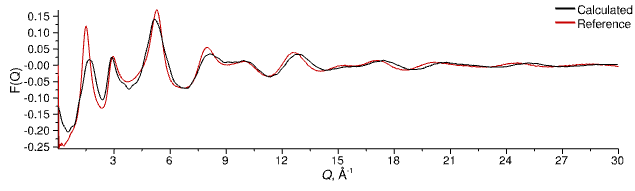
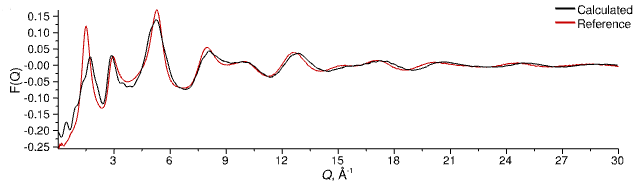
Update bulk silica example.

diff --git a/docs/examples/silica_bulk/step4.md b/docs/examples/silica_bulk/step4.md
@@ -11,7 +11,7 @@ To ensure that our silicon and oxygen atoms are well mixed and distributed we're
 
 > **Bulk** configuration tab
 {: .action .action_tabs}
-> Change the **Temperature** to 10000.0
+> Change the **Temperature** to 2000.0
 {: .action .action_edit}
 
 Now we'll run for 250 steps
@@ -24,10 +24,10 @@ Now we'll run for 250 steps
 You can open (double-click) the [`NeutronSQ`](../../userguide/modules/neutronsq) module in the _RDF / Neutron S(Q)_ layer to monitor the structure, or the [`Energhy`](../../userguide/modules/energy) module in the _Evolve (Basic Atomic)_ to check the energy as the simulation progresses. When finished, the F(Q) and G(r) should look a little like this:
 
 ![](cooked-fq.png)
-_Calculated structure factor (black line) of amorphous silica at high temperature (10,000 K) compared to reference data at 298 K (red line)_
+_Calculated structure factor (black line) of amorphous silica at high temperature (2000 K) compared to reference data at 298 K (red line)_
 
 ![](cooked-gr.png)
-_Calculated total G(r) (black line) of amorphous silica at high temperature (10,000 K) compared to Fourier transform of reference data at 298 K (red line)_
+_Calculated total G(r) (black line) of amorphous silica at high temperature (2000 K) compared to Fourier transform of reference data at 298 K (red line)_
 
 We'll now reset the temperature of the box to 298 K and run a second equilibration.
 

diff --git a/docs/examples/silica_bulk/step1.md b/docs/examples/silica_bulk/step1.md
@@ -15,13 +15,16 @@ Somewhat obviously, we need two atomic species for this simulation - an oxygen, 
 {: .step}
 > Select silicon in the periodic table dialog
 {: .step}
-> Change the _Charge_ of the new atom type to `2`, the _SR Form_ to `LJ`, _Parameter 1_ (Lennard-Jones epsilon) to `0.175`, and _Parameter 2_ (Lennard-Jones sigma) to `1.0`
+> Change the _Charge_ of the new atom type to `2`, the _SR Form_ to `LJ`, _Parameter 1_ (Lennard-Jones epsilon) to `0.175`, and _Parameter 2_ (Lennard-Jones sigma) to `1.03`
 {: .action .action_edit}
 > Click the _[+] Add_{: .text-green-100} button again, and choose oxygen from the periodic table
 {: .step}
-> Change the _Charge_ of the oxygen atom type to `-1`, the _SR Form_ to `LJ`, _Parameter 1_ (Lennard-Jones epsilon) to `0.17`, and _Parameter 2_ (Lennard-Jones sigma) to `3.5`
+> Change the _Charge_ of the oxygen atom type to `-1`, the _SR Form_ to `LJ`, _Parameter 1_ (Lennard-Jones epsilon) to `0.165`, and _Parameter 2_ (Lennard-Jones sigma) to `3.5`
 {: .action .action_edit}
 
+> Atom types created in this way are named after the symbol of the relevant element.
+{: .tip}
+	
 Now let's generate our atomic species and assign the relevant atom types. First, the silicon:
 
 > Species &#8680; Create... &#8680; Atomic...

diff --git a/docs/examples/silica_bulk/step3.md b/docs/examples/silica_bulk/step3.md
@@ -31,5 +31,7 @@ We just need to set the instrumental _Q_ broadening and add the reference data t
 {: .action .action_groups}
 > For the **Reference** keyword select the file `SiO2_NIMROD.mint01` and set the format of the data to `mint`
 {: .step}
+> The datafile contains a point at _Q_ = 0.0 which we must remove, so tick the **ReferenceIgnoreFirst** option
+{: .step}
 
 [Previous Step](step2.md){: .btn }   [Next Step](step4.md){: .btn .right}
